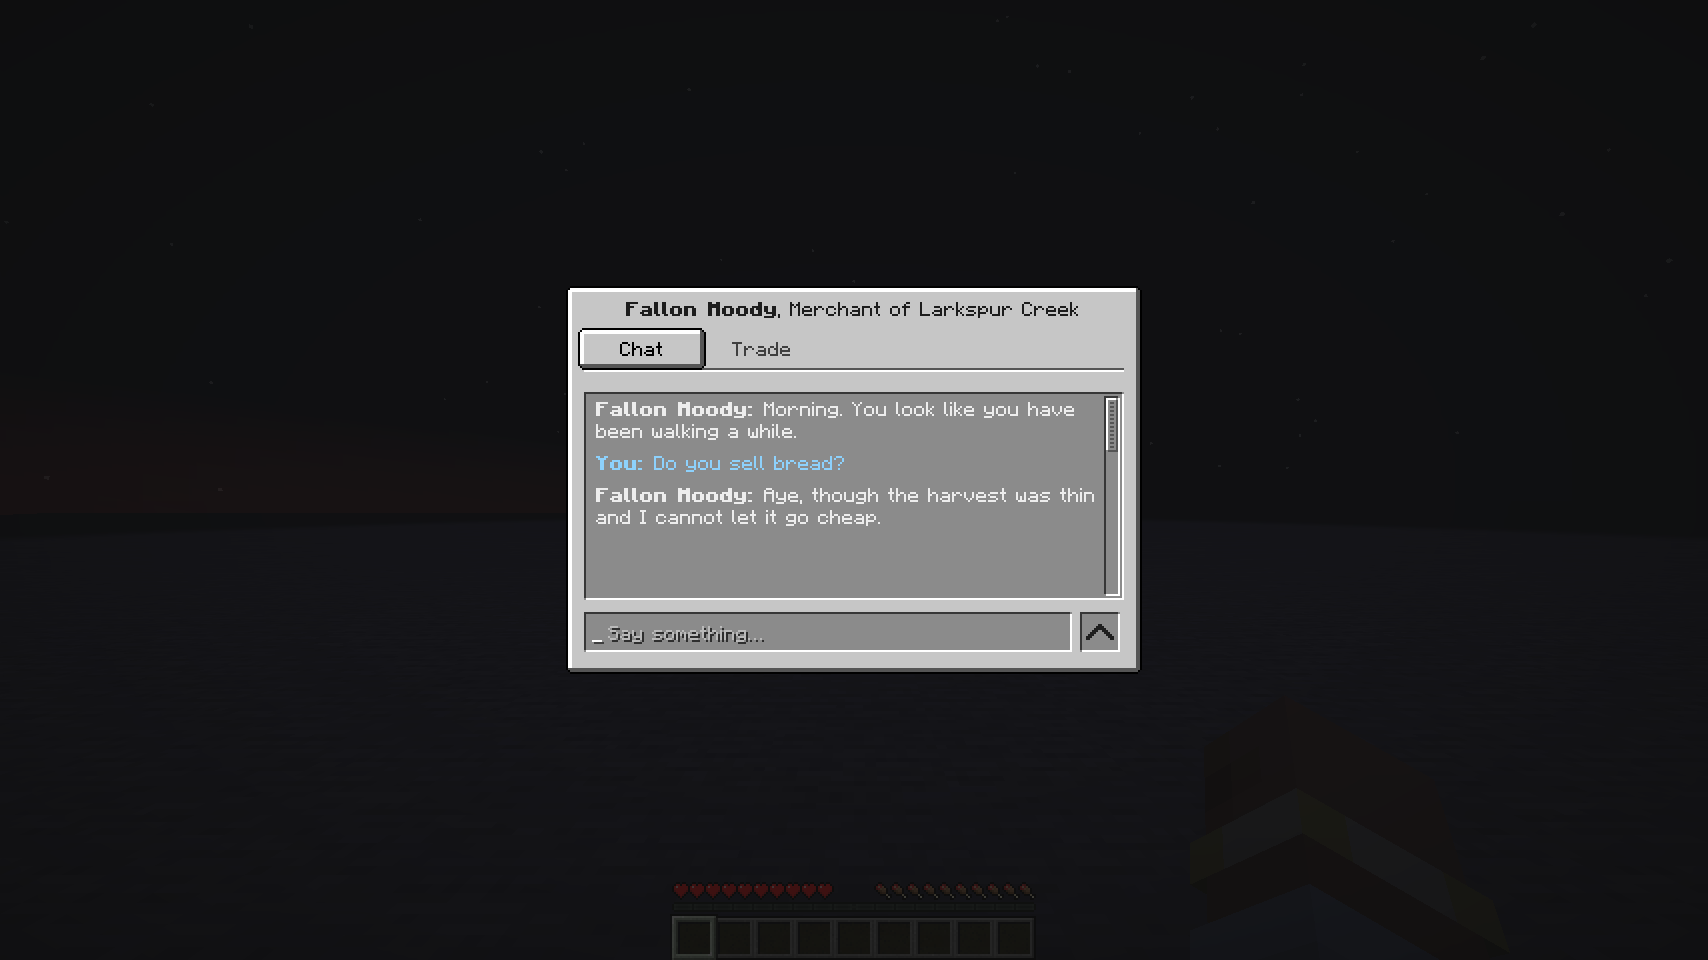
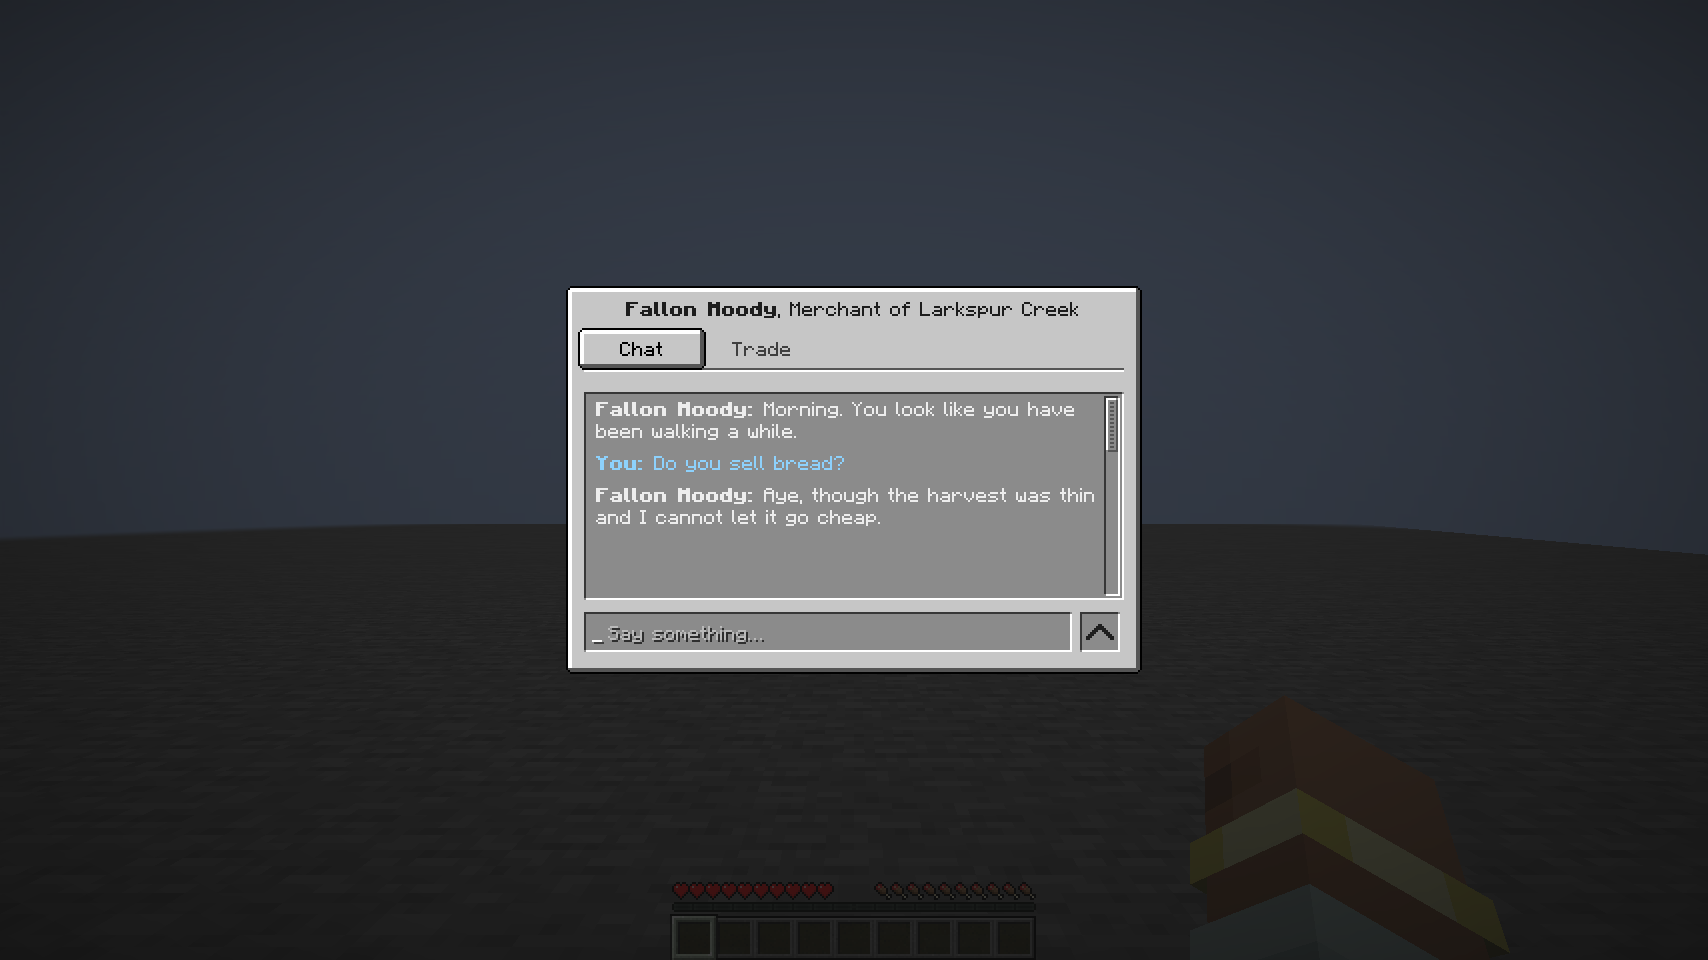
Record live Render deployment and v1.0.0 verification (#180)

diff --git a/docs/release.md b/docs/release.md
@@ -66,7 +66,10 @@ Windows-launcher client check remains required before public publication.
 ### 2. Verify installation and runtime
 
 The release now targets **Minecraft 1.21.1 / NeoForge 21.1.252 / Java 21**. The old 21.1.72
-receipts below are historical; rerun CI and packaged client/server checks for the new pin.
+receipts below are historical. The new pin passed [main CI](https://github.com/Quzzar/kithkyn/actions/runs/37029904101)
+and the [tagged release workflow](https://github.com/Quzzar/kithkyn/actions/runs/37030708152).
+The native macOS packaged client/server also passed with Curios, all 68 founding cases,
+chat/trade screenshots and clean shutdown: [new receipt](../tools/release/verification/macos-arm64-neoforge252.json).
 The patched loader avoids the [network decoder vulnerability fixed in 21.1.229](https://neoforged.net/news/mitigating-vulnerabilities-network/).
 Metadata admits only Minecraft 1.21.1 and NeoForge 21.1.252 or later in the 21.1 line.
 See [the version-support investigation](research/minecraft-version-support-2026-10-02.md)
@@ -160,10 +163,16 @@ to the client. [ui-preview.md](ui-preview.md) explains the sample payloads.
 
 ### Draft and publish
 
-The preparation PR and website PR are merged. The launch PR dates the changelog, updates the
-loader and production website metadata, and leaves the update feed without promotions. After
-its checks pass, tag `v1.0.0` on main and let CI build the canonical jar and draft release.
-Download that CI-built jar, checksums and release notes for the manual platform uploads.
+Preparation PR #177, website PR #178 and release PR #179 are merged. Tag `v1.0.0` points to
+`0ac94dc93a0df7965829a8c65c54bf98f9e26504` on main. The tagged CI build passed and created the
+1.0.0 draft in [GitHub Releases](https://github.com/Quzzar/kithkyn/releases). Its canonical
+`kithkyn-1.0.0.jar` is 4,243,434 bytes, with SHA-256
[1 lines of base64/hex data omitted]
+The downloaded jar passed its checksum, catalog audit and exact Minecraft/loader metadata check.
+
+The author's local upload bundle is `build/release-upload/kithkyn-1.0.0-upload.zip`: canonical
+jar, checksums, release notes, platform description, release manifest, icon, seven captioned
+screenshots and `UPLOAD.md`. The website is live on Render with an empty update feed.
 
 Complete the ordinary Windows-launcher client check before publishing the draft. Review and
 publish it, upload that same jar to Modrinth and CurseForge, and then add the website update

diff --git a/docs/website-brand.md b/docs/website-brand.md
@@ -109,8 +109,19 @@ captured at 1200 × 630 from the SVG and visually inspected.
 
 Production deployment uses the existing Render `kithkyn-website` service
 (`srv-d89gkkjeo5us738rm5o0`) and its verified `kithkyn.com` domain. That service previously
-tracked the retired `Quzzar/kithkyn-old-1` repository; it is being moved to `Quzzar/kithkyn`
-with root directory `Website` and a frozen-lockfile Bun build. Keep its SPA rewrite to
-`/index.html`. Canonical and sharing metadata now use absolute `https://kithkyn.com` URLs.
-The update feed has no version promotions until the mod draft is publicly published.
-Record the successful deployment commit and live desktop/mobile verification after deploying.
+tracked the retired `Quzzar/kithkyn-old-1` repository; it now uses `Quzzar/kithkyn`
+with root directory `Website`, publish directory `dist` and a frozen-lockfile Bun build.
+It tracks `main` and deploys after CI passes. Existing `/*` rewrites to `/index.html`.
+Canonical and sharing metadata use absolute `https://kithkyn.com` URLs. The update feed has
+no version promotions until the mod draft is publicly published.
+
+October 2 production deployment succeeded from main commit
+`0ac94dc93a0df7965829a8c65c54bf98f9e26504` at 11:59 AM EDT:
+[Render deployment](https://dashboard.render.com/static/srv-d89gkkjeo5us738rm5o0/deploys/dep-davt9q142hec73e3j31g).
+The live homepage was inspected at 1280 × 900 and 390 × 844; 320 × 720 also has no horizontal
+overflow. Reviewed [desktop](website-preview/live-desktop.png) and
+[mobile](website-preview/live-mobile.png) captures retain complete logo edges and loaded photos.
+The browser console has no warnings or errors. The shared `/atlas?village=jungle` link selects
+Jungle and preserves its query/section; cloud setup and Credits work. HTTPS and the www
+redirect return the expected page, old brand routes reach the SPA, the sharing JPEG matches
+the repository's file, and `/updates.json` returns JSON with empty promotions.

diff --git a/docs/release-gallery/README.md b/docs/release-gallery/README.md
@@ -3,8 +3,8 @@
 Seven reviewed captures for the 1.0.0 mod pages. The architecture captures are the
 approved catalog showcases; they show placed structures in review worlds rather than
 claiming to show naturally generated, fully developed villages. The UI captures were
-rendered on macOS from the packaged release candidate on 2026-09-30, connected to the
-production-loader test server with Curios installed on both sides.
+recaptured on macOS from the packaged release candidate on 2026-10-02, connected to the
+NeoForge 21.1.252 production-loader test server with Curios installed on both sides.
 
 Use the captions below when uploading. The chat conversation, villager name and market
 offers use the documented `UiPreview` sample payloads; they are not a live AI transcript.

diff --git a/Website/README.md b/Website/README.md
@@ -67,7 +67,7 @@ See `../docs/website-brand.md` for provenance and publishing status, and
 Render's existing `kithkyn-website` static site (`srv-d89gkkjeo5us738rm5o0`) owns
 `kithkyn.com` and redirects `www.kithkyn.com` to it. Deployment uses `Quzzar/kithkyn`, branch
 `main`, root directory `Website`, build command `bun install --frozen-lockfile && bun run build`,
-and publish directory `dist`. Route requests must rewrite to `/index.html` while existing
+and publish directory `dist`. Automatic deployments wait for passing CI checks. Route requests must rewrite to `/index.html` while existing
 assets retain their normal URLs. Canonical, Open Graph URL and sharing image use the absolute
 `https://kithkyn.com` host.
 
